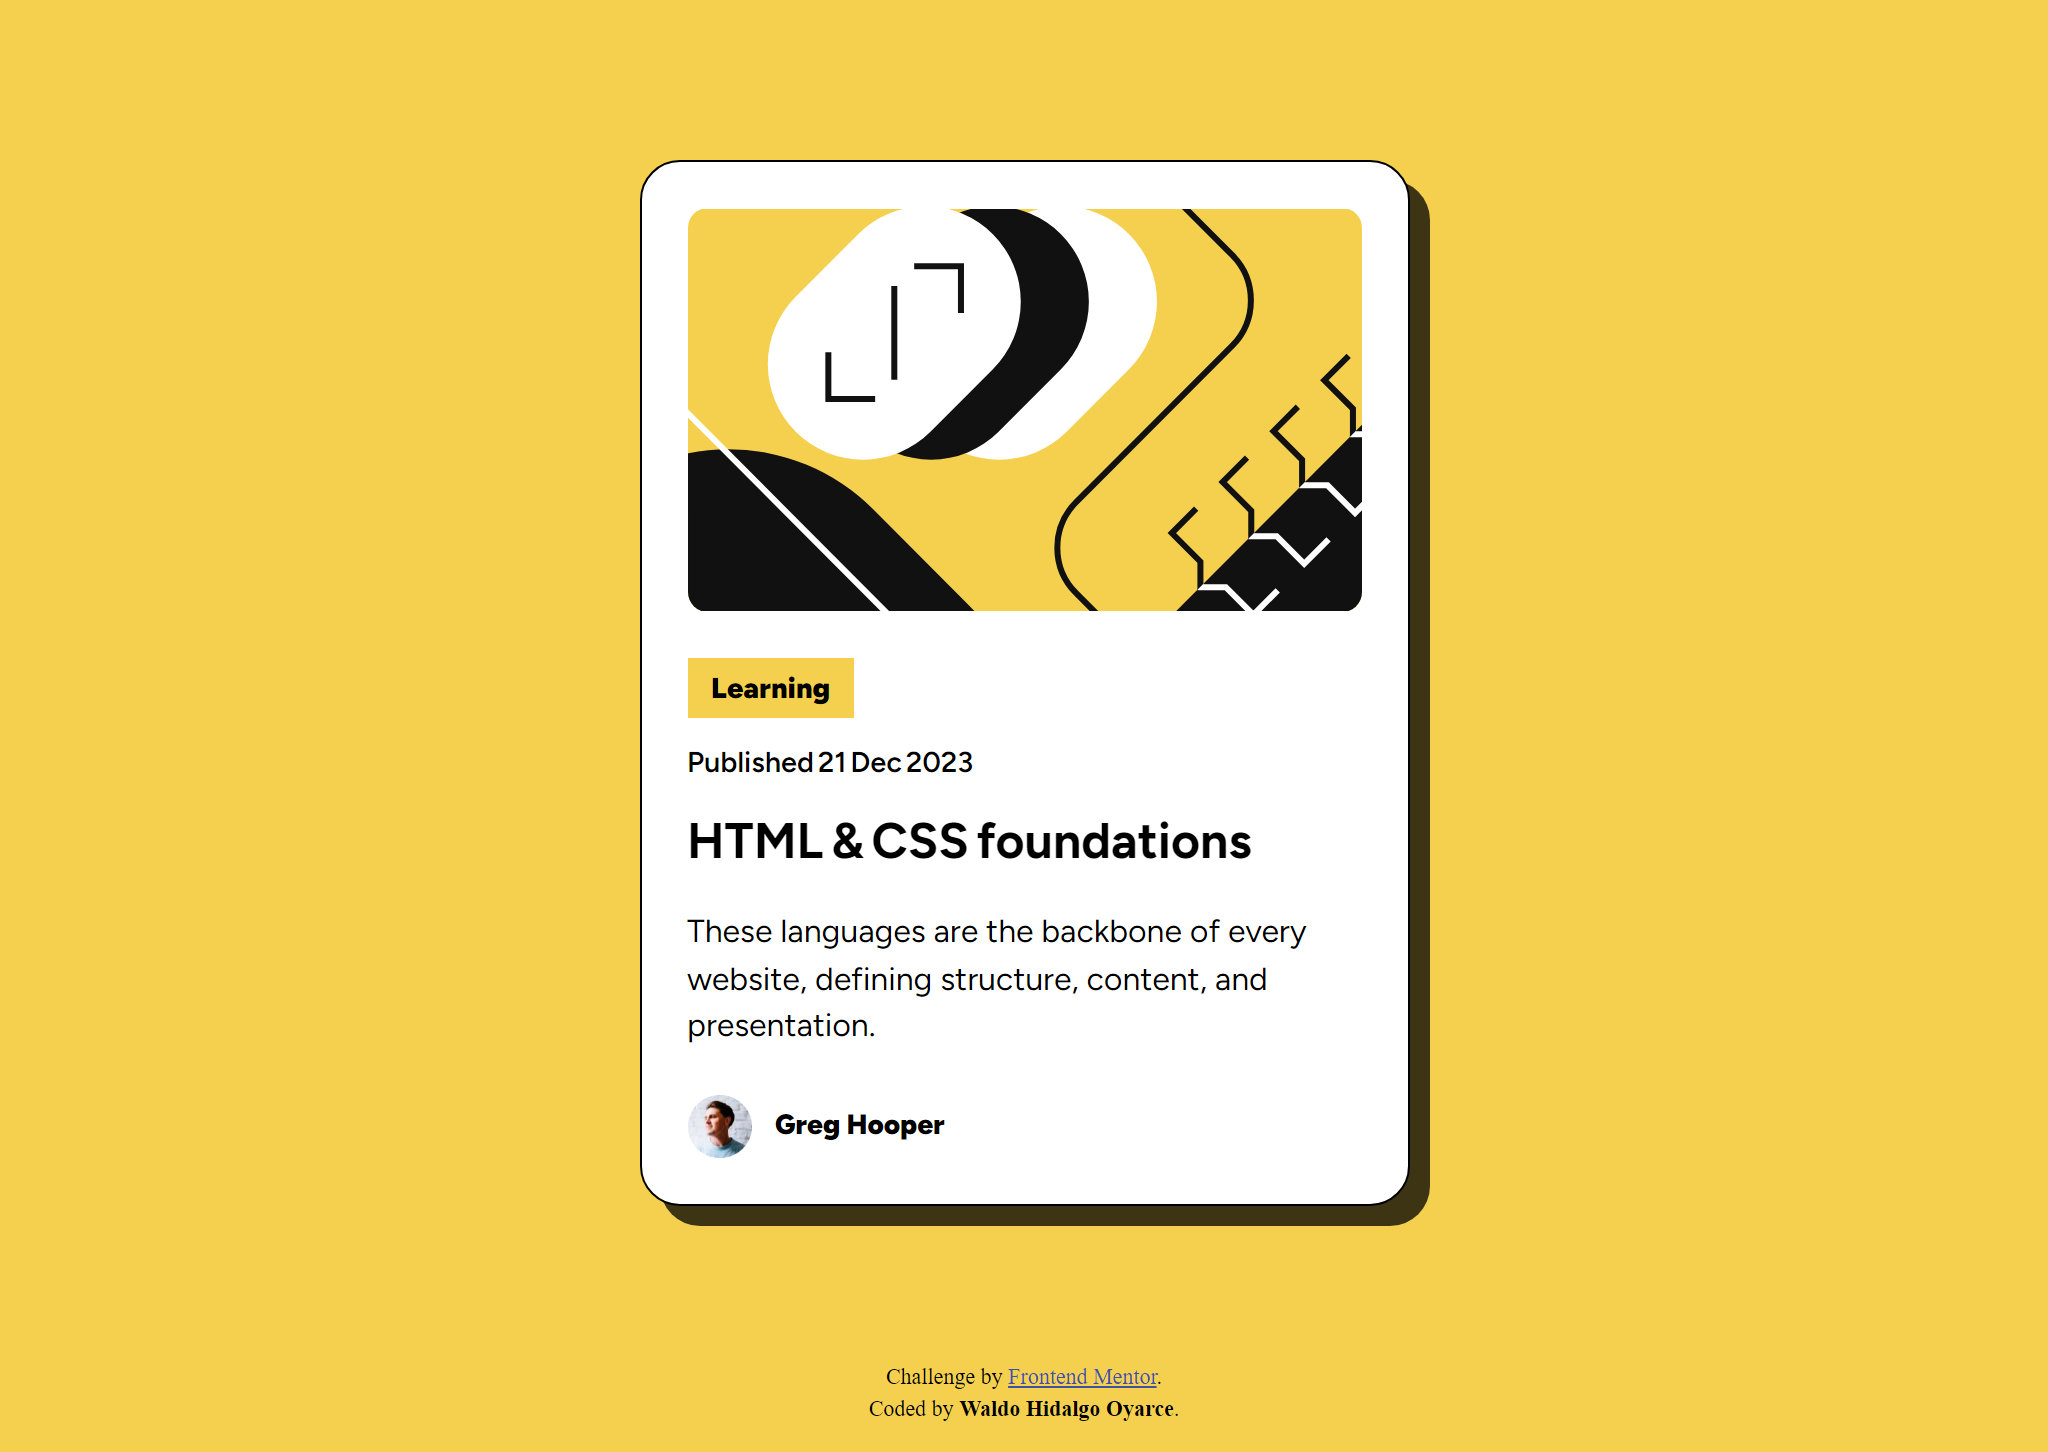
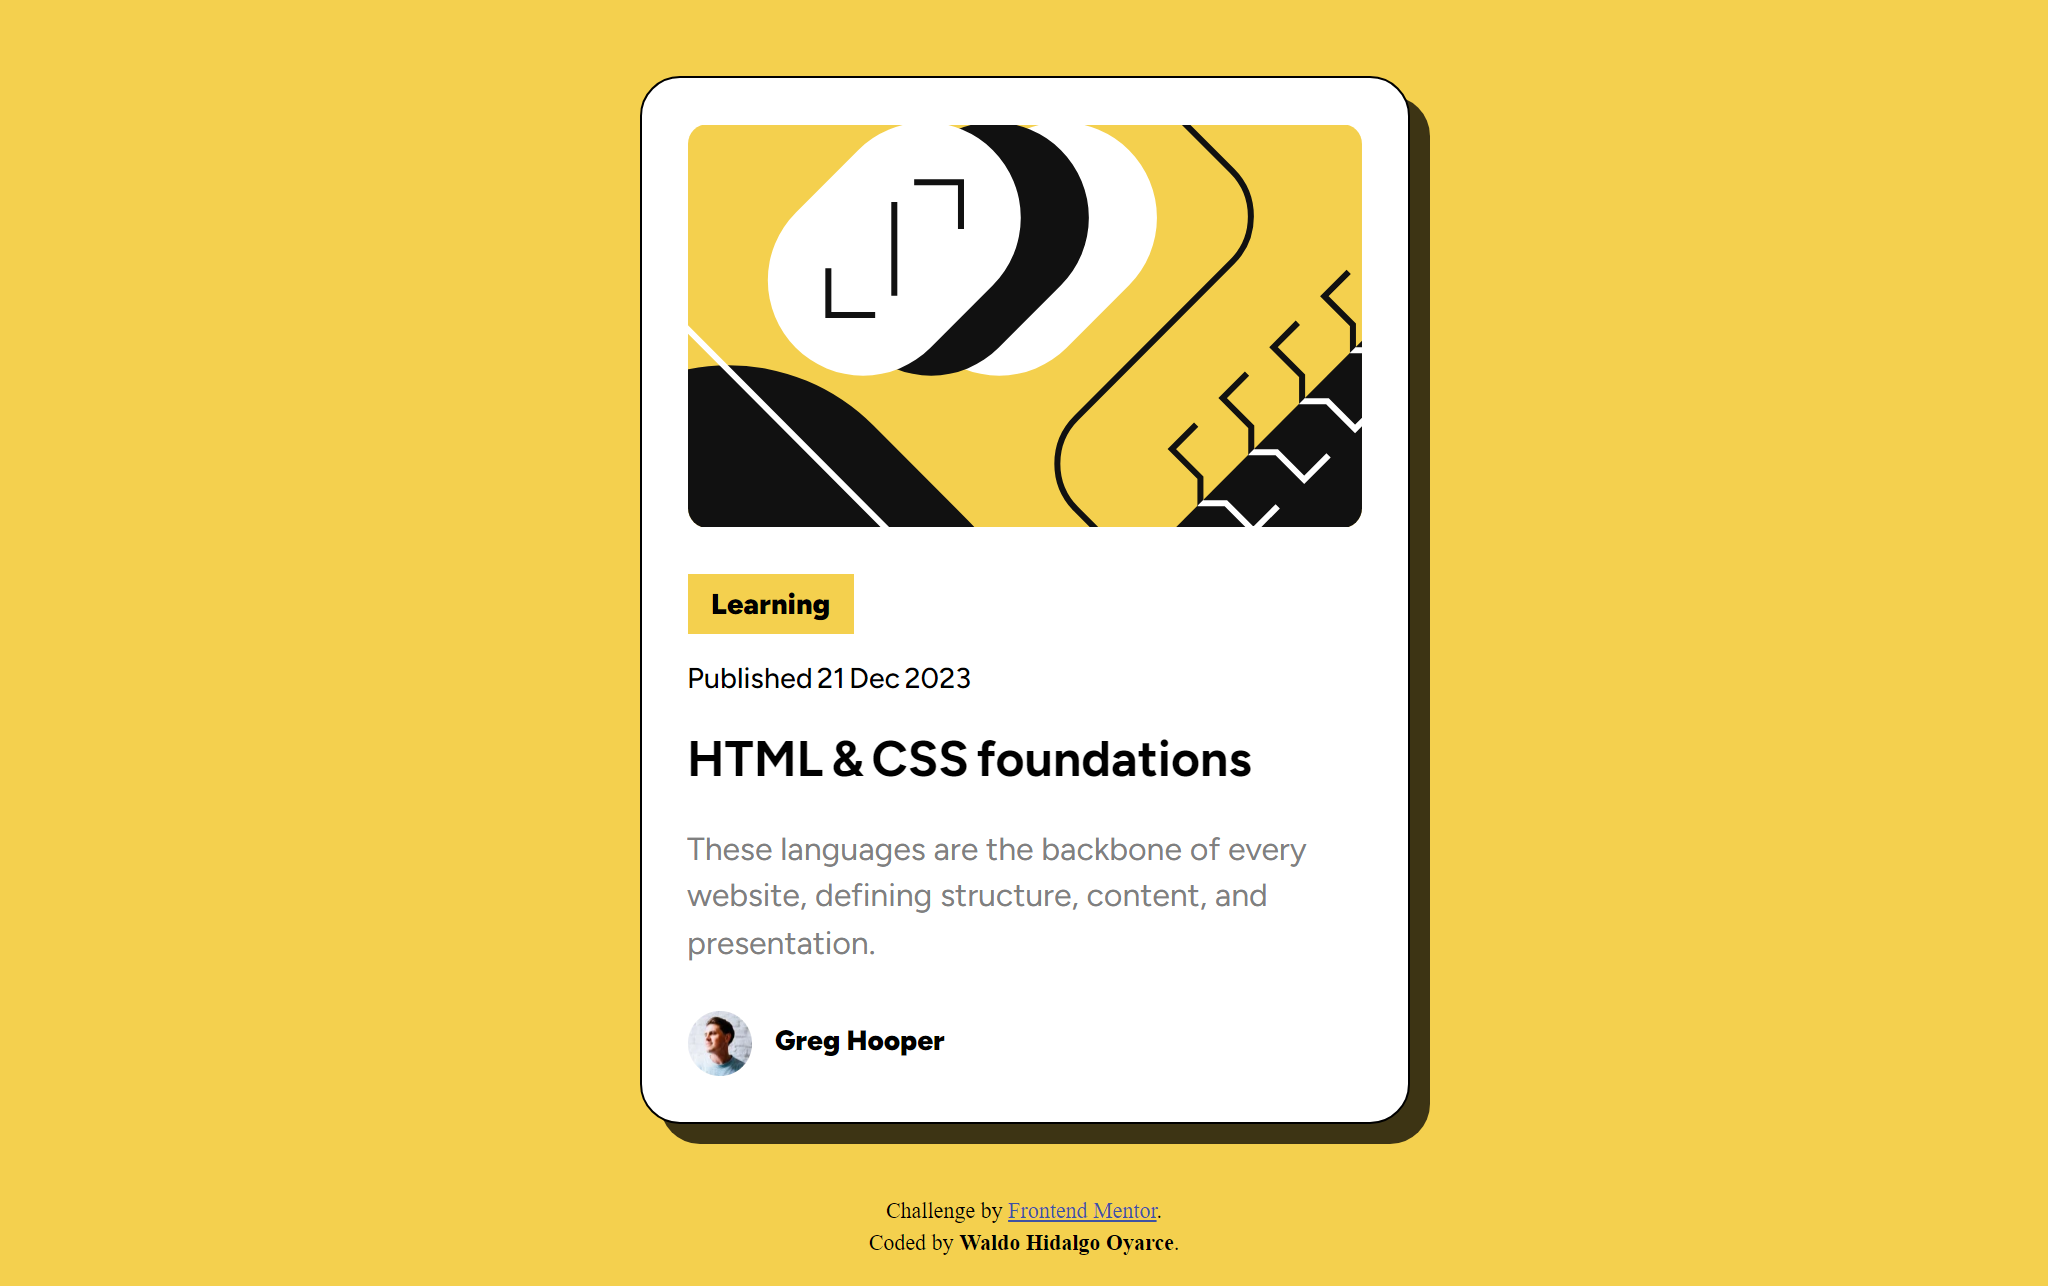
actualizo readme.md and colors, weight

Changed region(s): [[0.3125, 0.0622, 0.7188, 0.902], [0.4375, 0.9331, 0.5625, 0.9953]]

diff --git a/assets/css/styles.css b/assets/css/styles.css
@@ -64,7 +64,7 @@ main {
 .card_date {
   margin-top: 15px;
   font-size: 0.74rem;
-  font-weight: 600;
+  font-weight: 500;
   word-spacing: 0px;
   @media screen and (min-width: 400px) {
     font-size: 0.9rem;
@@ -92,7 +92,8 @@ main {
   word-spacing: -1.5px;
   margin-top: 16px;
   line-height: 21px;
-
+  font-weight: 400;
+  color: grey;
   @media screen and (min-width: 400px) {
     font-size: 1rem;
     margin-top: 21px;
